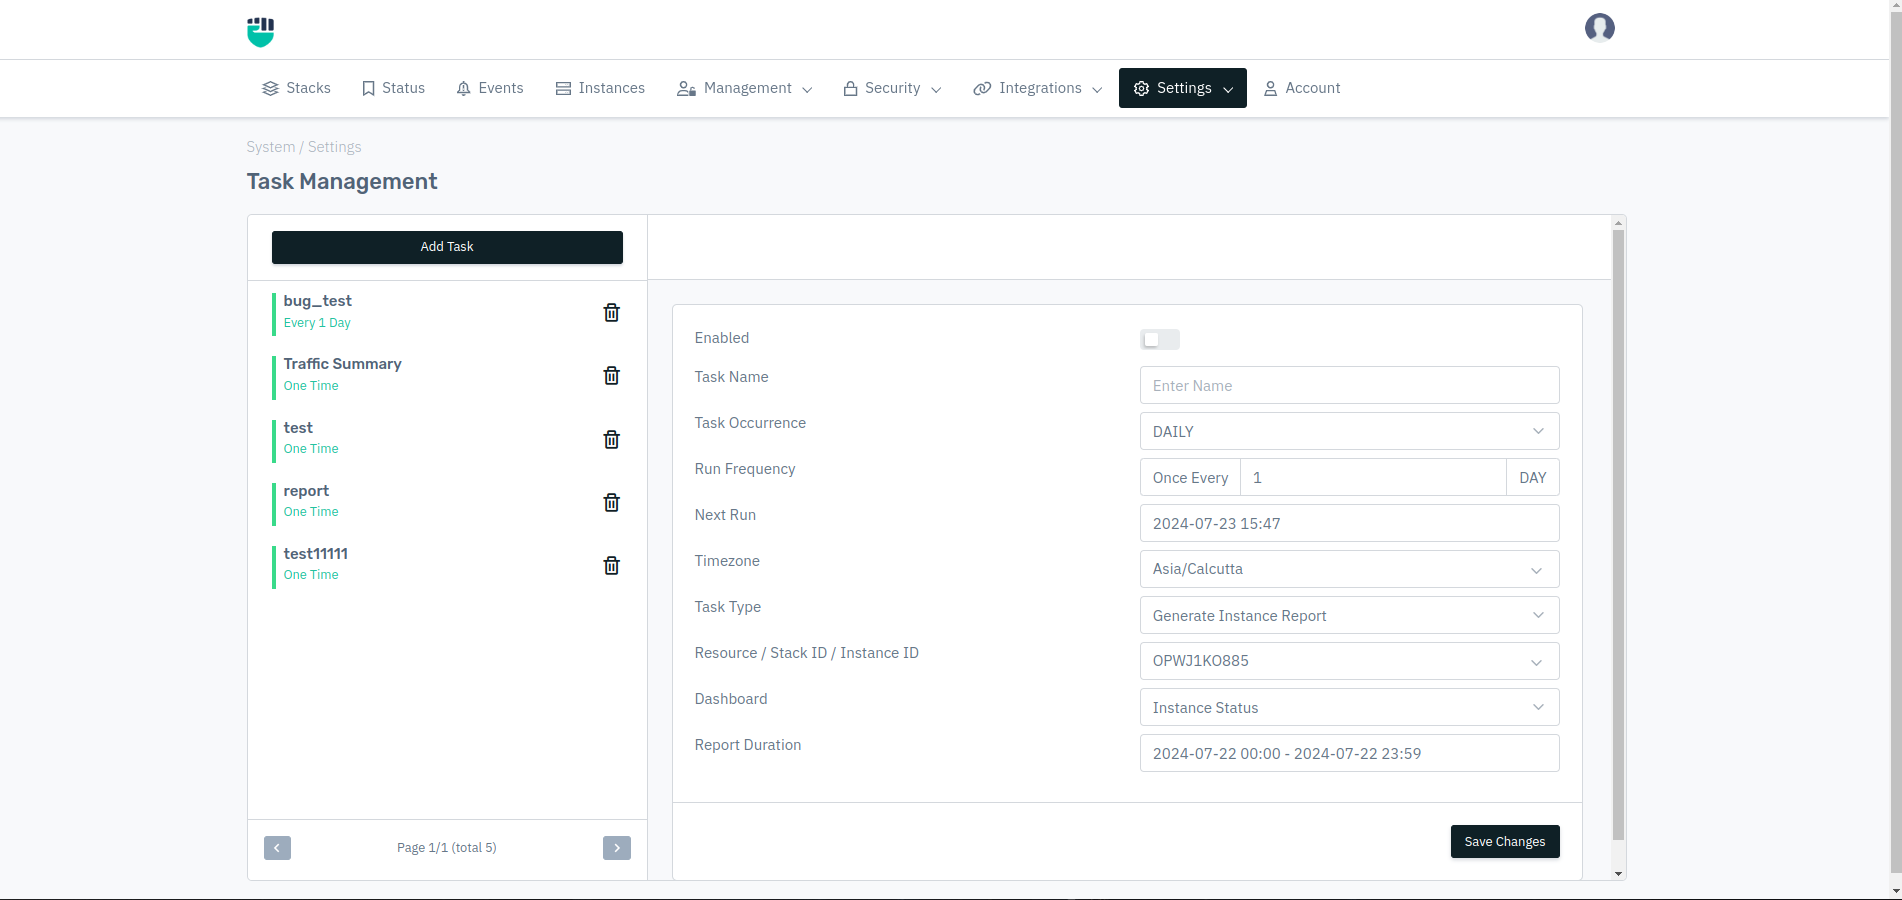
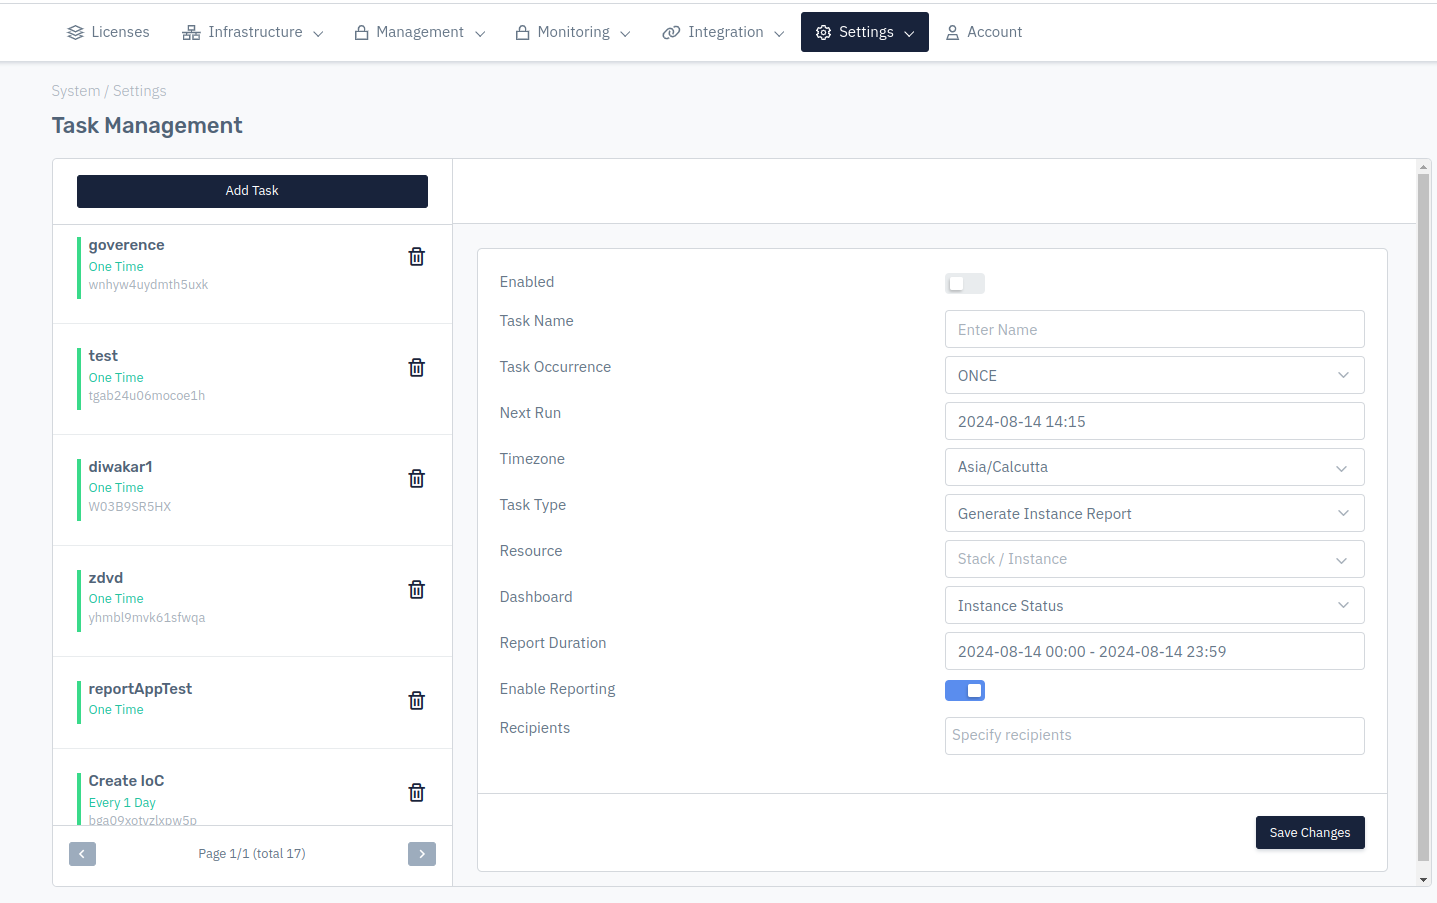
changes

diff --git a/versioned_docs/version-8.0/enterprise/platform/system/integrations/email.md b/versioned_docs/version-8.0/enterprise/platform/system/integrations/email.md
@@ -4,7 +4,7 @@ sidebar_position: 1
 
 # E-Mail
 
-Integration with E-Mail Service
+### Integration with E-Mail Service
 
 ---
 
@@ -19,7 +19,7 @@ It is recommended to integrate Haltdos solutions with SMTP for receiving timely 
 ![E-Mail](/img/platform/v8/docs/email2.png)
 
 ### How to Use:
-1. Go to **System > Integeration**
+1. Go to **System > Integration**
 2. Select **E-Mail**
 3. Configure E-Mail Settings
 4. Click **Save Changes**
@@ -31,7 +31,7 @@ This feature allows users to enable notification via emails. By default, this op
 
     Accepted values: Enable / Disable
 
-    Default: Enable 
+    Default: Disable 
 
 ##### **Email Server**  
 This feature allows users to mention the email server details. Users can add the  hostname or IP address of the mail server  
@@ -97,16 +97,17 @@ This option allows users to set specific types of encryption protocols to use wh
     Default: TLS 
 
 ##### **DSN Response**
-DNS is a query/response protocol. The client queries information in a single UDP request. This request is followed by a single UDP reply from the DNS server. DNS uses UDP port 53 to connect to the server.  
+ 
+ DSN is an automated email informing the sender of another message about delivery problem.  
 
-    Accepted values: None
+    Accepted values: Full Message/Headers Only/None
 
     Default: None 
 
 ##### **DSN Notify**
 User can Specify when to send delivery status notification (DSN)
 
-    Accepted values: None
+    Accepted values: Success/Failure/Delay/None
 
     Default: None 
 

diff --git a/versioned_docs/version-8.0/enterprise/platform/system/settings/management.md b/versioned_docs/version-8.0/enterprise/platform/system/settings/management.md
@@ -1,10 +1,10 @@
 ---
-sidebar_position: 4
+sidebar_position: 1
 ---
 
 # Task Management
 
-Scheduling repeated tasks in Haltdos Platform
+### Scheduling repeated tasks in Haltdos Platform
 
 ---
 
@@ -14,7 +14,7 @@ Haltdos supports automating repeated tasks such as reports, auto-profiling, peri
 
 ### How to Use:
 
-1. Go to **Stack > Settings > Task Management**
+1. Go to **System > Settings > Task Management**
 2. Configure your settings
 3. Click **Save Changes**
 
@@ -60,6 +60,14 @@ Select the timezone for the task scheduled.
 
     Default: Asia/Calcutta 
 
+**Task Type**
+
+Specify the type of task
+
+    Accepted values: Select Task Type
+
+    Default: Genrate Report 
+
 **Resource** 
 
 Specify the listener or  profile
@@ -68,13 +76,6 @@ Specify the listener or  profile
 
     Default: Blank 
 
-**Task Type**
-
-Specify the type of task
-
-    Accepted values: Select Task Type
-
-    Default: Genrate Report 
 
 **Dashboard**
 
@@ -92,10 +93,17 @@ Specify the occurrence of the report
 
     Default: Blank 
 
-**Notify Users**  
+**Enable Reporting**  
 
 Users can use this feature to get task on mail.
 
-    Accepted values: String
+    Accepted values: Enable/Disable
 
-    Default: Blank 
+    Default: Disable
+
+**Recipents**  
+
+
+    Accepted values: 
+
+    Default:   

diff --git a/versioned_docs/version-8.0/enterprise/platform/system/integrations/webhooks.md b/versioned_docs/version-8.0/enterprise/platform/system/integrations/webhooks.md
@@ -1,10 +1,10 @@
 ---
-sidebar_position: 4
+sidebar_position: 3
 ---
 
 # Webhooks
 
-Integration with external 3rd party solutions for notification and alerts via APIs
+### Integration with external 3rd party solutions for notification and alerts via APIs
 
 ---
 
@@ -14,24 +14,34 @@ Haltdos platform can easily integrate with one or more API endpoints to send ale
 
 ### How to Use:
 
-1. Go to **Stack** > **Integration** > **Webhooks**.
-2. Click on the button  **Add Webhoks**    |
+1. Go to **System** > **Integration** > **Webhooks**.
+2. Click on the button  **Add Webhooks**
 3. Configure your settings
 4. Click **Save Changes**
 
 ### Description:
 
 **Enable**
-Select whether to Enable it or Disable it. 
+
+ Select whether to Enable it or Disable it. 
 
     Accepted values: Enable / Disable
 
-    Default: Enable 
+    Default: Disable 
 
 **Name**
-Specify the Name 
+
+  Specify the Name 
 
     Accepted values: String
+
+    Default: Blank 
+
+**Stack**
+
+ Specify the Stack 
+
+    Accepted values: Dropdown list of stacks available
 
     Default: Blank 
 
@@ -57,7 +67,7 @@ This option helps the user to mention the payload location.
 
     Accepted values: ARG / PARAM / BODY
 
-    Default: ARG 
+    Default: PARAM 
 
 **Payload Name**
 

diff --git a/versioned_docs/version-8.0/enterprise/platform/system/integrations/threat_intel.md b/versioned_docs/version-8.0/enterprise/platform/system/integrations/threat_intel.md
@@ -1,10 +1,10 @@
 ---
-sidebar_position: 5
+sidebar_position: 4
 ---
 
-# Threat Feeds
+# Threat Intel
 
-Integration with 3rd party Threat Intelligence feeds
+### Integration with 3rd party Threat Intelligence feeds
 
 ---
 
@@ -22,21 +22,23 @@ Only IPv4/IPv6 addresses / prefix having poor reputation is currently supported.
 
 ### How to Use:
 
-1. Go to **Threat Intel**
+1. Go to **System > Integration > Threat Intel**
 2. Configure your settings
 3. Click Save.
   
 ### Description:
 
 **Enable**
-Select whether to Enable it or Disable it. 
+
+ Select whether to Enable it or Disable it. 
 
     Accepted values: Enable / Disable
 
-    Default: Enable 
+    Default: Disable 
 
 **Intel Source Name**
-Enter the intel source name
+
+ Enter the intel source name
 
     Accepted values: String
 
@@ -50,13 +52,6 @@ Stack is selected here
 
     Default: Blank 
 
-**Feed Type**
-
-Select feed type
-
-    Accepted values: IP / Domain
-
-    Default: Enable 
 
 **Task Occurrence**
 
@@ -104,7 +99,7 @@ Select type of attribute
 
     Accepted values: HEADER_VAL / ARGS_VAL / PARAM_VAL
 
-    Default: HEADER_VAL
+    Default: Blank
 
 **Name**
 

diff --git a/versioned_docs/version-8.0/enterprise/platform/system/settings/settings.md b/versioned_docs/version-8.0/enterprise/platform/system/settings/settings.md
@@ -10,10 +10,9 @@ Overview of Stack settings
 
 Stack settings provide users with additional tools to configure advanced options in Haltdos Platform. Users can integrate with 3rd party solutions such as Backup, Syslog servers, AAA, etc., customise dashboards and reports, generate API token for API driven solution management.
 
-1. [**Reports**](/v8/enterprise/platform/system/settings/reports)
-2. [**Dashboards**](/v8/enterprise/platform/system/settings/dashboards)
-3. [**Log Retention**](/v8/enterprise/platform/system/settings/log_retention)
-4. [**Forensics**](/v8/enterprise/platform/system/settings/forensics)
-4. [**Task Management**](/v8/enterprise/platform/system/settings/scheduler)
-5. [**Updates**](/v8/enterprise/platform/system/settings/updates)
-
+1. [**Task Management**](./management.md)
+2. [**Reports**](./reports.md)
+3. [**Dashboards**](./dashboards.md)
+4. [**Log Retention**](./log_retention.md)
+5. [**Forensics**](./forensics.md)
+6. [**Actions**](./actions.md)

diff --git a/versioned_docs/version-8.0/enterprise/platform/system/settings/reports.md b/versioned_docs/version-8.0/enterprise/platform/system/settings/reports.md
@@ -1,10 +1,8 @@
 ---
-sidebar_position: 1
+sidebar_position: 2
 ---
 
 # Reports
-
-Overview of reports
 
 ---
 
@@ -16,11 +14,13 @@ To enable reporting use Scheduler (under Stack Settings) to specify report type,
 
 ![reports](/img/platform/v8/docs/reports.png)
 
+![reports](/img/platform/v8/docs/reports2.png)
+
 ---
 
 ### How to Use:
 
-1. Go to **Stack > Settings > Reports**
+1. Go to **System > Settings > Reports**
 2. Configure your settings
 3. Click **Save Changes**
 
@@ -29,7 +29,7 @@ To enable reporting use Scheduler (under Stack Settings) to specify report type,
 
 **WAF / ADC**
 
-The following reports are provided by the platform (built-in reports). Custom reports can also be generated. Please refer to Dashboards (under Stack Settings).
+The following reports are provided by the platform (built-in reports). Custom reports can also be generated. Please refer to Dashboards (under system Settings).
 
 - Performance Summary
 - Attack Summary

diff --git a/versioned_docs/version-8.0/enterprise/platform/system/integrations/api_tokens.md b/versioned_docs/version-8.0/enterprise/platform/system/integrations/api_tokens.md
@@ -4,7 +4,7 @@ sidebar_position: 3
 
 # API Tokens 
 
-Generating API tokens for enabling API functionality
+### Generating API tokens for enabling API functionality
 
 ---
 
@@ -18,7 +18,7 @@ All API requests are **Authorization: Bearer `<TOKEN>`** header. Depending upon 
 ![apitokens](/img/platform/v8/docs/apiToken2.png)
 ### How to Use:
 
-1. Go to **Stack** > **Integration** > **API Tokens**
+1. Go to **System** > **Integration** > **API Tokens**
 2. Click on the button  Generate API token.
 3. Configure your settings
 4. Click **Save Changes**
@@ -37,9 +37,9 @@ This feature allows users to enter token name
 
 This feature allows users to enable/disable the system access
 
-    Accepted values: String
+    Accepted values: Enable/Disable
 
-    Default: Blank 
+    Default: Disable 
 
 ##### **Stack**  
 

diff --git a/versioned_docs/version-8.0/enterprise/platform/system/integrations/integrations.md b/versioned_docs/version-8.0/enterprise/platform/system/integrations/integrations.md
@@ -4,14 +4,13 @@ sidebar_position: 0
 
 # Integrations
 
-Overview of supported integration options
+### Overview of supported integration options
 
 ---
 
 Haltdos platform supports various integration options to support integration with 3rd party solutions and services. This section details various supported integrations.
 
 1. [**Email**](/v8/enterprise/platform/system/integrations/email)
-2. [**Config Sync**](config_sync.md)
-3. [**API Tokens**](api_tokens.md)
-4. [**Webhooks**](webhooks.md)
-5. [**Threat Feeds**](/v8/enterprise/platform/system/integrations/threat_feeds)
+2. [**API Tokens**](api_tokens.md)
+3. [**Webhooks**](webhooks.md)
+4. [**Threat Intel**](/v8/enterprise/platform/system/integrations/threat_intel)

diff --git a/versioned_docs/version-8.0/enterprise/platform/system/settings/dashboards.md b/versioned_docs/version-8.0/enterprise/platform/system/settings/dashboards.md
@@ -1,10 +1,10 @@
 ---
-sidebar_position: 2
+sidebar_position: 3
 ---
 
 # Dashboards
 
-Cutomize and create new dashboards in Haltdos Platform
+### Cutomize and create new dashboards in Haltdos Platform
 
 ---
 

diff --git a/versioned_docs/version-8.0/enterprise/platform/system/settings/actions.md b/versioned_docs/version-8.0/enterprise/platform/system/settings/actions.md
@@ -2,7 +2,7 @@
 sidebar_position: 6
 ---
 
-# Updates
+# Actions
 
 Versioning, Patch management and installation of updates and upgrades
 

diff --git a/versioned_docs/version-8.0/enterprise/platform/system/settings/log_retention.md b/versioned_docs/version-8.0/enterprise/platform/system/settings/log_retention.md
@@ -1,5 +1,5 @@
 ---
-sidebar_position: 3
+sidebar_position: 4
 ---
 
 # Log Retention

diff --git a/versioned_docs/version-8.0/enterprise/platform/system/settings/forensics.md b/versioned_docs/version-8.0/enterprise/platform/system/settings/forensics.md
@@ -1,5 +1,5 @@
 ---
-sidebar_position: 4
+sidebar_position: 5
 ---
 
 # Forensics
